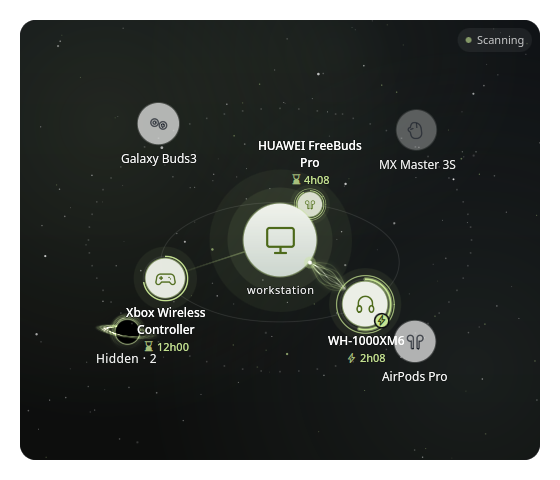
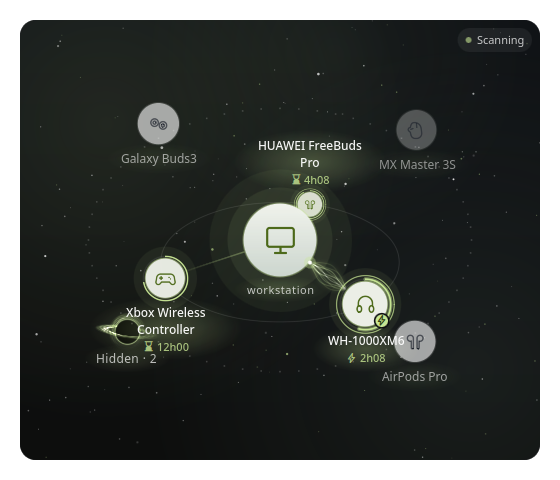
Names glow softly instead of an outline; connected ones read stronger
The outline was too heavy. Each label now sits on a soft radial pool of
light in the theme's accent (LabelGlow: plain Shape geometry, no layer
or shader, nothing to redraw while the orbit moves). Connected devices
get a fuller name and a stronger glow; when nothing is connected every
name is lifted, since there is no hierarchy to show. Far devices fade a
little more than in the previous commit. Preview: "-none" suffix.

diff --git a/components/DeviceBody.qml b/components/DeviceBody.qml
@@ -188,7 +188,7 @@ Item {
     y: py - height / 2
     // Bodies on the far side of the ring pass behind the host core (z 50)
     z: focused ? 20000 : dragging ? 10000 : inSlot && depth < 0 ? 10 + py * 0.01 : 100 + py
-    opacity: leaving ? 0 : (spawned ? 1 : 0) * ((scene.focusBody && scene.focusBody !== body) || scene.hiddenOpen ? 0.1 : 1) * (inSlot ? 1 : dormant ? 0.85 : 0.9 + 0.1 * signal)
+    opacity: leaving ? 0 : (spawned ? 1 : 0) * ((scene.focusBody && scene.focusBody !== body) || scene.hiddenOpen ? 0.1 : 1) * (inSlot ? 1 : dormant ? 0.75 : 0.8 + 0.2 * signal)
 
     Behavior on opacity {
         NumberAnimation {
@@ -454,9 +454,9 @@ Item {
                     duration: 260
                 }
             }
-            color: body.night.whiteBodies ? (body.connected ? Qt.tint("#FFFFFF", Theme.withAlpha(Theme.primary, 0.1)) : Qt.rgba(1, 1, 1, body.dormant ? 0.35 : 0.72)) : body.connected ? Qt.tint(Qt.rgba(0.06, 0.07, 0.09, 0.92), Theme.withAlpha(body.night.primary, 0.16)) : body.scene.glass ? Qt.rgba(0.05, 0.06, 0.08, body.dormant ? 0.62 : 0.7) : Qt.rgba(1, 1, 1, body.dormant ? 0.07 : 0.1)
+            color: body.night.whiteBodies ? (body.connected ? Qt.tint("#FFFFFF", Theme.withAlpha(Theme.primary, 0.1)) : Qt.rgba(1, 1, 1, body.dormant ? 0.35 : 0.72)) : body.connected ? Qt.tint(Qt.rgba(0.06, 0.07, 0.09, 0.92), Theme.withAlpha(body.night.primary, 0.16)) : body.scene.glass ? Qt.rgba(0.05, 0.06, 0.08, body.dormant ? 0.5 : 0.6) : Qt.rgba(1, 1, 1, body.dormant ? 0.05 : 0.085)
             border.width: 1
-            border.color: body.armed && body.holding ? Theme.withAlpha(body.night.error, 0.8) : body.armed ? Theme.withAlpha(body.night.primary, 0.9) : body.connected ? Theme.withAlpha(body.night.primary, 0.55) : Qt.rgba(1, 1, 1, body.dormant ? 0.14 : 0.2)
+            border.color: body.armed && body.holding ? Theme.withAlpha(body.night.error, 0.8) : body.armed ? Theme.withAlpha(body.night.primary, 0.9) : body.connected ? Theme.withAlpha(body.night.primary, 0.55) : Qt.rgba(1, 1, 1, body.dormant ? 0.11 : 0.17)
 
             Behavior on color {
                 ColorAnimation {
@@ -779,9 +779,22 @@ Item {
         }
     }
 
+    // A soft glow behind the name: stronger for connected devices, and for
+    // every device while nothing is connected
+    LabelGlow {
+        x: label.x + label.width / 2 - width / 2
+        y: label.y + label.height / 2 - height / 2
+        spanX: label.width + 30
+        spanY: label.height + 14
+        color: body.night.primary
+        strength: body.connected || body.hovered ? 0.26 : body.scene.anyConnected ? 0.1 : 0.18
+        visible: label.visible && label.opacity > 0
+    }
+
     // Name + connection timer. Orbiting bodies in the upper half put their
     // label above so it never collides with the host core.
     Column {
+        id: label
         readonly property bool above: body.inSlot && body.py < body.scene.cy
         readonly property real gap: body.diameter * body.baseScale / 2 + 5
         y: above ? body.height / 2 - gap - height : body.height / 2 + gap
@@ -796,9 +809,7 @@ Item {
             horizontalAlignment: Text.AlignHCenter
             text: body.name
             elide: Text.ElideRight
-            color: Qt.rgba(1, 1, 1, body.connected || body.hovered ? 0.95 : 0.88)
-            style: Text.Outline
-            styleColor: body.scene.labelShade
+            color: Qt.rgba(1, 1, 1, body.connected || body.hovered ? 0.95 : body.scene.anyConnected ? 0.68 : 0.85)
             font.pixelSize: Math.max(9, Math.round(body.diameter * 0.2))
             font.weight: body.connected ? Font.Medium : Font.Normal
         }
@@ -824,9 +835,7 @@ Item {
                 anchors.verticalCenter: parent.verticalCenter
                 text: Charge.formatShort(parent.minutes)
                 color: Theme.withAlpha(body.night.primary, 0.8)
-                style: Text.Outline
-                styleColor: body.scene.labelShade
-                font.pixelSize: Math.max(8, Math.round(body.diameter * 0.18))
+                                                font.pixelSize: Math.max(8, Math.round(body.diameter * 0.18))
                 font.weight: Font.Medium
                 font.features: {
                     "tnum": 1
@@ -839,9 +848,7 @@ Item {
             visible: !body.charging && !(body.minutesLeft > 0) && body.connected && body.scene.sinceFor(body.address) > 0 && !(body.charge?.minutesToFull > 0)
             text: Catalog.formatDuration(body.scene.now - body.scene.sinceFor(body.address))
             color: Theme.withAlpha(body.night.primary, 0.75)
-            style: Text.Outline
-            styleColor: body.scene.labelShade
-            font.family: "monospace"
+                                    font.family: "monospace"
             font.pixelSize: Math.max(8, Math.round(body.diameter * 0.17))
         }
     }

diff --git a/components/OrbitScene.qml b/components/OrbitScene.qml
@@ -25,10 +25,9 @@ Item {
     property bool freezeWhenIdle: false      // desktop: stop animating when idle
     property bool interacting: false         // desktop: pointer is over the widget
     property bool glass: false               // desktop: frameless, fades into the wallpaper
-    // Labels get a dark, theme-tinted outline so they stay legible on any
-    // background: a pale or busy wallpaper on the desktop, the bright halo
-    // of a connected device in the panels
-    readonly property color labelShade: Qt.tint(Qt.rgba(0.02, 0.024, 0.04, 0.75), Theme.withAlpha(night.primary, 0.07))
+    // Names of connected devices read stronger than the others; with nothing
+    // connected there is no hierarchy to show, so every name is lifted
+    property bool anyConnected: false
     property real cornerRadius: 0            // rounded hosts (Control Center, popout)
     property var previewDevices: []          // fake device objects, for previews and tests
     readonly property alias prefs: prefsObj
@@ -248,6 +247,7 @@ Item {
         list = list.filter(d => d.connected || kept++ < room);
         for (const d of list)
             map[d.address] = d;
+        anyConnected = btOn && list.some(d => d.connected);
         if (!btOn) {
             for (const k in map)
                 delete map[k];
@@ -1295,14 +1295,25 @@ Item {
             }
         }
 
+        LabelGlow {
+            x: hostName.x + hostName.width / 2 - width / 2
+            y: hostName.y + hostName.height / 2 - height / 2
+            z: 49
+            spanX: hostName.width + 26
+            spanY: hostName.height + 12
+            color: scene.night.primary
+            strength: 0.16
+            opacity: hostName.opacity
+            visible: hostName.text !== ""
+        }
+
         StyledText {
+            id: hostName
             anchors.horizontalCenter: core.horizontalCenter
             y: core.y + core.height + 4
             z: 50
             text: UserInfoService.hostname || ""
-            color: Qt.rgba(1, 1, 1, 0.75)
-            style: Text.Outline
-            styleColor: scene.labelShade
+            color: Qt.rgba(1, 1, 1, 0.72)
             font.pixelSize: Math.max(9, Math.round(scene.coreSize * 0.14))
             font.letterSpacing: 0.6
             opacity: scene.focusBody ? 0 : 1

diff --git a/scripts/preview/shot.qml b/scripts/preview/shot.qml
@@ -11,14 +11,15 @@ import "../../components"
 Window {
     id: win
     readonly property var args: Qt.application.arguments
-    // A "-light" suffix renders with a light theme's accent colors; a
-    // "-bright" suffix puts the desktop shots on a pale, busy wallpaper
-    // (the hardest case for label contrast)
+    // Suffixes: "-light" renders with a light theme's accent colors,
+    // "-bright" puts the desktop shots on a pale, busy wallpaper (the
+    // hardest case for label contrast), "-none" disconnects every device
     readonly property string rawMode: args[args.length - 2]
-    readonly property bool bright: rawMode.endsWith("-bright")
-    readonly property string baseMode: rawMode.replace(/-bright$/, "")
-    readonly property bool light: baseMode.endsWith("-light")
-    readonly property string mode: baseMode.replace(/-light$/, "")
+    readonly property var flags: rawMode.split("-")
+    readonly property bool bright: flags.indexOf("bright") > 0
+    readonly property bool light: flags.indexOf("light") > 0
+    readonly property bool none: flags.indexOf("none") > 0
+    readonly property string mode: flags[0]
     readonly property string out: args[args.length - 1]
     readonly property bool glass: mode.startsWith("desktop")
     // Control Center sized shots for the black hole, menu and comet
@@ -31,7 +32,8 @@ Window {
     readonly property double t: Date.now()
     readonly property int m: 60000
 
-    readonly property var devices: [
+    readonly property var devices: (none ? allDevices.map(d => Object.assign({}, d, { connected: false })) : allDevices)
+    readonly property var allDevices: [
         { address: "02:00:00:00:10:06", name: "WH-1000XM6", connected: true, paired: true, bonded: true, blocked: false, batteryAvailable: true, battery: 0.54, icon: "audio-headphones" },
         { address: "98:7A:14:22:C1:0E", name: "Xbox Wireless Controller", connected: true, paired: true, bonded: true, blocked: false, batteryAvailable: true, battery: 0.72, icon: "input-gaming" },
         { address: "D4:1A:88:10:5B:77", name: "MX Master 3S", connected: false, paired: true, bonded: true, blocked: false, batteryAvailable: false, battery: 0, icon: "input-mouse" },

diff --git a/components/LabelGlow.qml b/components/LabelGlow.qml
@@ -1,0 +1,53 @@
+import QtQuick
+import QtQuick.Shapes
+import qs.Common
+
+// A soft pool of light behind a label: the name glows slightly and lifts
+// off a busy background, without a hard outline. Plain geometry with a
+// radial gradient (no layer, no shader), so moving it costs nothing.
+Shape {
+    id: glow
+
+    property color color: Theme.primary
+    property real strength: 0.2          // alpha at the heart of the glow
+    property real spanX: 100             // size of the light pool
+    property real spanY: 30
+
+    // The gradient is round: draw a square and squash it into an ellipse
+    width: spanX
+    height: spanX
+    transform: Scale {
+        origin.x: glow.width / 2
+        origin.y: glow.height / 2
+        yScale: glow.spanY / Math.max(1, glow.spanX)
+    }
+
+    ShapePath {
+        strokeWidth: -1
+        fillGradient: RadialGradient {
+            centerX: glow.width / 2
+            centerY: glow.height / 2
+            centerRadius: glow.width / 2
+            focalX: centerX
+            focalY: centerY
+            GradientStop {
+                position: 0
+                color: Theme.withAlpha(glow.color, glow.strength)
+            }
+            GradientStop {
+                position: 0.5
+                color: Theme.withAlpha(glow.color, glow.strength * 0.55)
+            }
+            GradientStop {
+                position: 1
+                color: Theme.withAlpha(glow.color, 0)
+            }
+        }
+        startX: 0
+        startY: 0
+        PathLine { x: glow.width; y: 0 }
+        PathLine { x: glow.width; y: glow.height }
+        PathLine { x: 0; y: glow.height }
+        PathLine { x: 0; y: 0 }
+    }
+}

diff --git a/components/BlackHole.qml b/components/BlackHole.qml
@@ -71,13 +71,22 @@ Item {
     }
 
     // Name + how many devices it holds
+    LabelGlow {
+        x: holeName.x + holeName.width / 2 - width / 2
+        y: holeName.y + holeName.height / 2 - height / 2
+        spanX: holeName.width + 26
+        spanY: holeName.height + 12
+        color: hole.night.primary
+        strength: 0.14
+        visible: holeName.visible
+    }
+
     StyledText {
+        id: holeName
         anchors.horizontalCenter: parent.horizontalCenter
         y: parent.height / 2 + hole.horizon + 6
         text: hole.count > 0 ? "Hidden · " + hole.count : "Hidden"
-        color: Qt.rgba(1, 1, 1, hole.hovered || hole.feed > 0.3 ? 0.88 : 0.75)
-        style: Text.Outline
-        styleColor: hole.scene.labelShade
+        color: Qt.rgba(1, 1, 1, hole.hovered || hole.feed > 0.3 ? 0.88 : 0.7)
         font.pixelSize: Math.max(9, Math.round(hole.scene.bodySize * 0.2))
         font.letterSpacing: 0.4
         visible: hole.scene.prefs.showLabels || hole.hovered || hole.feed > 0

diff --git a/README.md b/README.md
@@ -441,7 +441,8 @@ over time.
 ## Changelog
 
 ### 1.4.1 (2026-09-27)
-- Device names are readable everywhere: every label (devices, host, black hole) gets a thin dark outline tinted by your theme, and devices that are not connected barely fade any more. On the desktop they also sit on a smoky disc, so they no longer vanish on a pale or busy wallpaper. Same in the Control Center and the bar popout.
+- Device names are readable everywhere, even on a pale or busy wallpaper: each name glows softly in your theme's accent, and devices that are not connected fade less. On the desktop they also sit on a smoky disc.
+- Connected devices read stronger than the others. With nothing connected, every name is lifted so the orbit stays easy to read.
 
 ### 1.4.0 (2026-09-26)
 - Rename a device: click its name in the detail card. Enter saves, Escape cancels, an empty name restores the device's own name.
